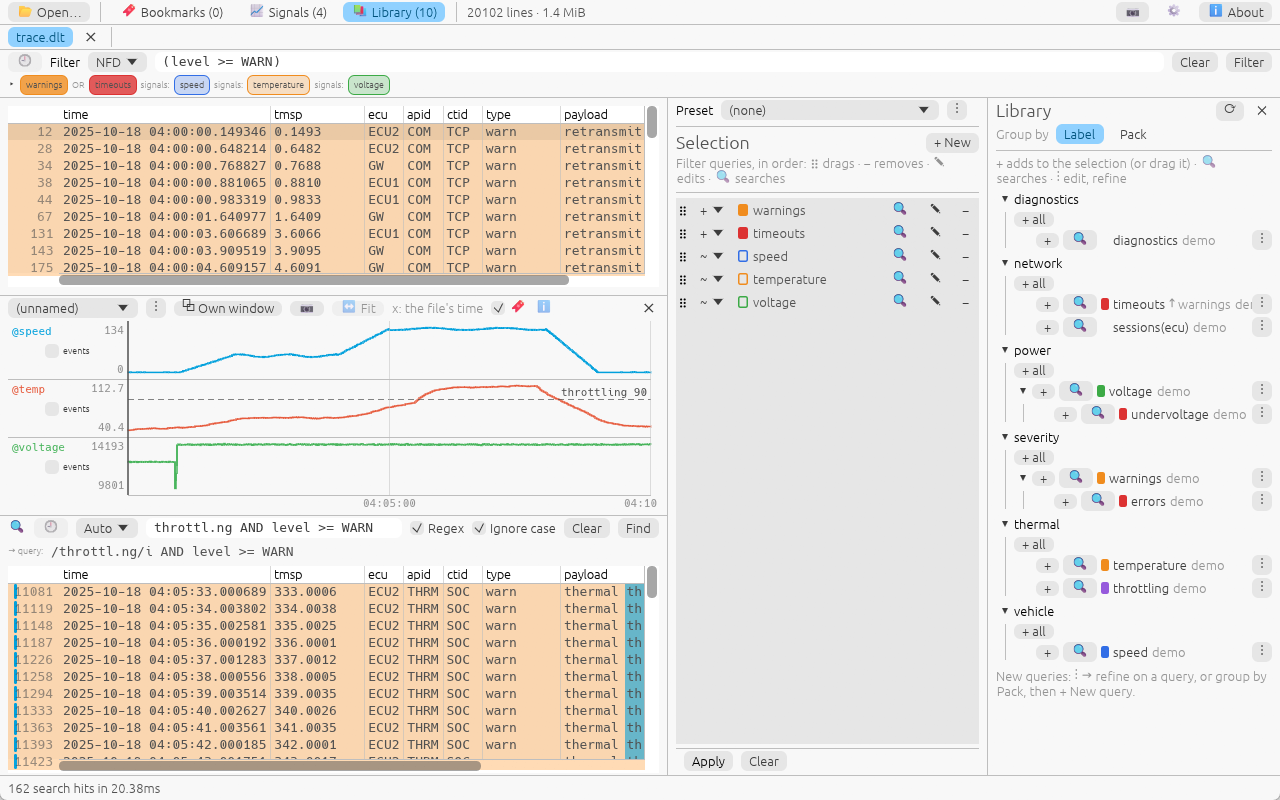
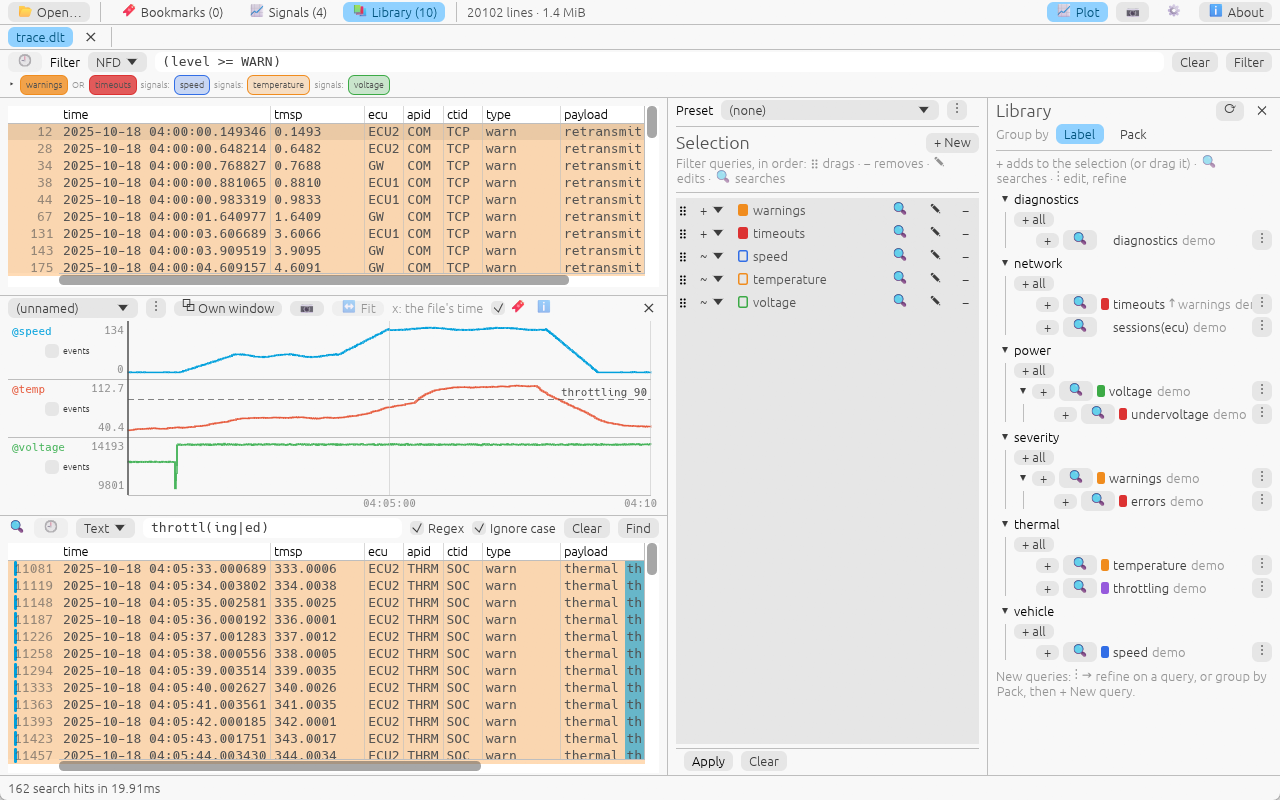
GUI: Plot button in the top bar, bookmark hover, removable search chips
Owner's tweaks for 0.1.0:
- 📈 Plot next to 📷 in the top bar shows or hides the active tab's
  plot (as the button in the Signals panel does).
- Hovering a bookmarked line in a view shows the bookmark's name and
  note at the pointer.
- A search chip shows ✖ while hovered; a click removes its query from
  the Search box, the others are searched again, and removing the last
  one clears the search. Test: removing_a_search_chip_drops_its_query.

README screenshot: a Text-mode regex search (Ignore case ticked)
instead of an Auto one, and the new Plot button. status.md records the
tweaks and the owner's idea of bookmarks in filters and searches.

Changed region(s): [[0.0, 0.6562, 0.5312, 0.9688], [0.8125, 0.0, 0.875, 0.0312]]

diff --git a/ui/src/main.rs b/ui/src/main.rs
@@ -1444,6 +1444,23 @@ impl Tab {
         }
     }
 
+    /// A search chip's click: the box without its `i`-th query (OR'ed with
+    /// the others), searched again; empty, the search is cleared.
+    fn remove_search_term(&mut self, ctx: &egui::Context, i: usize) {
+        let Some(terms) = self.search.current_terms() else { return };
+        let mut terms = terms.to_vec();
+        if i < terms.len() {
+            terms.remove(i);
+        }
+        if terms.is_empty() {
+            self.clear_search();
+            return;
+        }
+        self.search.pattern = SearchBox::text_of(&terms);
+        self.search.terms = terms;
+        self.run_search_box(ctx);
+    }
+
     /// What the Search box asks for: one query per picked library query, or
     /// the box's text as one query.
     fn build_search(&self) -> Result<ActiveSearch, String> {
@@ -2056,7 +2073,7 @@ impl Tab {
         if let Some(a) = self.filter_exp.clone().filter(|a| a.exp.nfd == self.pattern) {
             let picks = &self.picks;
             let lines = expansion_lines(&a, &|k| picks.is_lit(k));
-            if let Some(key) = chips_view(ui, &lines, &mut self.chips_open) {
+            if let Some(ChipClick::Lit(key)) = chips_view(ui, &lines, &mut self.chips_open) {
                 self.picks.toggle_lit(key);
                 self.recolor(ui.ctx());
             }
@@ -2196,7 +2213,9 @@ impl Tab {
         }
         if let Some(terms) = self.search.current_terms() {
             let lines = term_lines(terms);
-            chips_view(ui, &lines, &mut self.chips_open);
+            if let Some(ChipClick::Remove(i)) = chips_view(ui, &lines, &mut self.chips_open) {
+                self.remove_search_term(ui.ctx(), i);
+            }
         } else {
             let schema = self.file.as_ref().map(|f| f.schema()).unwrap_or_default();
             let s = &mut self.search;
@@ -2268,8 +2287,9 @@ fn short(id: &str) -> &str {
 }
 
 /// One picked query under a box: how it joins the others, its name chip
-/// and colour, its NFD, and (filter queries) the key of its selection node
-/// with whether its lines are coloured.
+/// and colour, its NFD, (filter queries) the key of its selection node
+/// with whether its lines are coloured, and (search queries) whether a
+/// click removes it from the box.
 struct ChipLine<'a> {
     joiner: &'static str,
     name: &'a str,
@@ -2277,16 +2297,26 @@ struct ChipLine<'a> {
     nfd: &'a str,
     origin: Cow<'a, str>,
     lit: Option<(u64, bool)>,
+    removable: bool,
+}
+
+/// A click on a chip: switch a filter node's line colour, or remove the
+/// `i`-th query from the box.
+#[derive(Debug, Clone, Copy, PartialEq, Eq)]
+enum ChipClick {
+    Lit(u64),
+    Remove(usize),
 }
 
 /// The picked queries under a box. Folded (the default): one row of name
 /// chips, the NFD on hover. Unfolded (▸ / ▾): one line per query with its
-/// NFD. A chip with `lit` switches its line colour (filled when on);
-/// returns the node whose chip was clicked.
-fn chips_view(ui: &mut egui::Ui, lines: &[ChipLine<'_>], open: &mut bool) -> Option<u64> {
+/// NFD. A chip with `lit` switches its line colour (filled when on); a
+/// removable one shows ✖ while hovered and a click removes it. Returns
+/// what was clicked.
+fn chips_view(ui: &mut egui::Ui, lines: &[ChipLine<'_>], open: &mut bool) -> Option<ChipClick> {
     const MAX_LINES: usize = 8;
     let mut clicked = None;
-    let mut chip = |ui: &mut egui::Ui, l: &ChipLine<'_>, folded: bool| {
+    let mut chip = |ui: &mut egui::Ui, i: usize, l: &ChipLine<'_>, folded: bool| {
         let tip = |extra: &str| {
             let nfd = if folded { format!("\n{}", l.nfd) } else { String::new() };
             format!("{}{nfd}{extra}", l.origin)
@@ -2296,7 +2326,13 @@ fn chips_view(ui: &mut egui::Ui, lines: &[ChipLine<'_>], open: &mut bool) -> Opt
                 let what = if on { "\nLines coloured: click to stop" } else { "\nClick to colour its lines" };
                 let r = library::chip(ui, l.name, l.color, on).interact(egui::Sense::click());
                 if r.on_hover_text(tip(what)).clicked() {
-                    clicked = Some(key);
+                    clicked = Some(ChipClick::Lit(key));
+                }
+            }
+            None if l.removable => {
+                let r = library::removable_chip(ui, l.name, l.color);
+                if r.on_hover_text(tip("\nClick to remove it from the search")).clicked() {
+                    clicked = Some(ChipClick::Remove(i));
                 }
             }
             None => {
@@ -2314,11 +2350,11 @@ fn chips_view(ui: &mut egui::Ui, lines: &[ChipLine<'_>], open: &mut bool) -> Opt
         ui.horizontal_wrapped(|ui| {
             ui.spacing_mut().item_spacing.x = 4.0;
             fold(ui, open);
-            for l in lines {
+            for (i, l) in lines.iter().enumerate() {
                 if !l.joiner.is_empty() {
                     ui.label(RichText::new(l.joiner).small().weak());
                 }
-                chip(ui, l, true);
+                chip(ui, i, l, true);
             }
         });
         return clicked;
@@ -2330,7 +2366,7 @@ fn chips_view(ui: &mut egui::Ui, lines: &[ChipLine<'_>], open: &mut bool) -> Opt
             }
             let w = if i == 0 { 38.0 } else { 52.0 };
             ui.add_sized([w, 14.0], egui::Label::new(RichText::new(l.joiner).small().weak()));
-            chip(ui, l, false);
+            chip(ui, i, l, false);
             ui.add(egui::Label::new(RichText::new(l.nfd).monospace().small()).truncate());
         });
     }
@@ -2385,6 +2421,7 @@ In '{by}', which is picked too: not repeated in the box"
                 nfd: a.exp.part_nfd(p),
                 origin,
                 lit: (p.role != Role::Exclude).then(|| (a.keys[i], lit(a.keys[i]))),
+                removable: false,
             }
         })
         .collect()
@@ -2402,6 +2439,7 @@ fn term_lines(terms: &[Term]) -> Vec<ChipLine<'_>> {
             nfd: &t.nfd,
             origin: "search query".into(),
             lit: None,
+            removable: true,
         })
         .collect()
 }
@@ -3478,6 +3516,14 @@ impl App {
                     if r.clicked() {
                         shot::request(ui.ctx(), None);
                     }
+                    // The plot at hand, not only in the Signals panel.
+                    if let Some(tab) = self.tabs.get(self.active) {
+                        let mut plot = plot::lock(&tab.plot);
+                        let tip = if plot.shown { "Close the plot (its lanes are kept)" } else { "Show the plot" };
+                        if ui.selectable_label(plot.shown, "📈 Plot").on_hover_text(tip).clicked() {
+                            plot.shown = !plot.shown;
+                        }
+                    }
                 });
             });
         });
@@ -4176,6 +4222,7 @@ gear=D
                 nfd: "(/SSL/)",
                 origin: "demo.ssl".into(),
                 lit: Some((1, true)),
+                removable: false,
             },
             ChipLine {
                 joiner: "OR",
@@ -4184,6 +4231,7 @@ gear=D
                 nfd: "(/disk/)",
                 origin: "demo.disk".into(),
                 lit: Some((2, false)),
+                removable: false,
             },
             ChipLine {
                 joiner: "AND NOT",
@@ -4192,6 +4240,7 @@ gear=D
                 nfd: "(/nav/)",
                 origin: "demo.noise".into(),
                 lit: None,
+                removable: false,
             },
         ];
         let ctx = egui::Context::default();
@@ -4892,6 +4941,41 @@ query nav
         tab.search_for(&ctx, &lib, &Target::Library("p.nav".into()), true);
         settle(&mut tab, &ctx);
         assert_eq!(hits(&tab).iter().map(|(l, _)| *l).collect::<Vec<_>>(), [0, 2]);
+        std::fs::remove_dir_all(&dir).ok();
+    }
+
+    /// A search chip's click removes its query: the others are searched
+    /// again; removing the last one clears the search.
+    #[test]
+    fn removing_a_search_chip_drops_its_query() {
+        use nerka_core::input::dlt::writer::Msg;
+        let dir = std::env::temp_dir().join(format!("nerka-gui-chip-remove-{}", std::process::id()));
+        std::fs::create_dir_all(&dir).unwrap();
+        let dlt = dir.join("t.dlt");
+        let mut buf = Vec::new();
+        for apid in ["NAV", "DIAG", "NAV", "COM"] {
+            Msg::log(nerka_core::Level::Info, "ECU1", apid, "C", vec![]).encode(&mut buf);
+        }
+        std::fs::write(&dlt, buf).unwrap();
+        let mut lib = Library::new();
+        let pack = "pack p\nquery nav\n    apid == NAV\nquery diag\n    apid == DIAG\n";
+        lib.add(pack::parse_pack("p.nerka-pack", pack).unwrap()).unwrap();
+        let ctx = egui::Context::default();
+        let mut tab = Tab::open(&ctx, dlt, &SearchPrefs::default());
+        settle(&mut tab, &ctx);
+        tab.search_for(&ctx, &lib, &Target::Library("p.nav".into()), false);
+        tab.search_for(&ctx, &lib, &Target::Library("p.diag".into()), true);
+        settle(&mut tab, &ctx);
+        assert_eq!(hits(&tab).iter().map(|(l, _)| *l).collect::<Vec<_>>(), [0, 1, 2]);
+
+        tab.remove_search_term(&ctx, 0);
+        settle(&mut tab, &ctx);
+        assert_eq!(tab.search.terms.iter().map(|t| t.name.as_str()).collect::<Vec<_>>(), ["diag"]);
+        assert_eq!(tab.search.pattern, SearchBox::text_of(&tab.search.terms));
+        assert_eq!(hits(&tab).iter().map(|(l, _)| *l).collect::<Vec<_>>(), [1]);
+
+        tab.remove_search_term(&ctx, 0);
+        assert!(tab.search.active.is_none() && tab.search.pattern.is_empty());
         std::fs::remove_dir_all(&dir).ok();
     }
 

diff --git a/ui/src/library.rs b/ui/src/library.rs
@@ -626,6 +626,34 @@ pub fn chip(ui: &mut egui::Ui, text: &str, color: Color32, strong: bool) -> egui
         .response
 }
 
+/// A chip a click removes: ✖ after the name while the pointer is over it
+/// (the room for it is always kept, so the chips don't move).
+pub fn removable_chip(ui: &mut egui::Ui, text: &str, color: Color32) -> egui::Response {
+    let id = ui.make_persistent_id(("removable chip", text));
+    let hot = ui.data(|d| d.get_temp::<bool>(id)).unwrap_or(false);
+    let r = egui::Frame::new()
+        .fill(color.gamma_multiply(if hot { 0.45 } else { 0.25 }))
+        .stroke(egui::Stroke::new(1.0, color))
+        .corner_radius(6.0)
+        .inner_margin(egui::Margin::symmetric(5, 0))
+        .show(ui, |ui| {
+            ui.horizontal(|ui| {
+                ui.spacing_mut().item_spacing.x = 3.0;
+                ui.label(RichText::new(text).small());
+                let x = if hot { ui.visuals().strong_text_color() } else { Color32::TRANSPARENT };
+                ui.label(RichText::new("✖").small().color(x));
+            })
+        })
+        .response
+        .interact(egui::Sense::click());
+    let now = r.hovered();
+    if now != hot {
+        ui.data_mut(|d| d.insert_temp(id, now));
+        ui.ctx().request_repaint();
+    }
+    r
+}
+
 /// Why a query can't run on this file: the fields it needs that the file
 /// doesn't have.
 fn incompatible_text(missing: &[String], schema: &[FieldDef]) -> String {

diff --git a/ui/src/view.rs b/ui/src/view.rs
@@ -755,6 +755,22 @@ pub fn log_view(
     if has_focus {
         painter.rect_stroke(outer.shrink(0.5), 0.0, Stroke::new(1.0, vis.selection.stroke.color), StrokeKind::Inside);
     }
+    // Hovering a bookmarked line shows the bookmark's name and note.
+    if let Some(b) = hl.bookmarks
+        && response.hovered()
+        && !bar.hovered()
+        && rows > 0
+        && let Some(p) = response.hover_pos()
+        && rows_rect.contains(p)
+        && let line = line_of_row(hit(state, p).row)
+        && let Some(name) = b.name(line)
+    {
+        let tip = match b.note(line).unwrap_or_default() {
+            "" => format!("🔖 {name}"),
+            note => format!("🔖 {name}\n{note}"),
+        };
+        response.clone().on_hover_text_at_pointer(tip);
+    }
 
     let moved_to = state.selected.filter(|_| state.selected != selected_before);
     ViewOutput { clicked, has_focus, copied, toggle_bookmark, detail, moved_to }

diff --git a/doc/status.md b/doc/status.md
@@ -2,7 +2,7 @@
 
 Snapshot of where the project stands. Update this file whenever the state changes.
 
-_Last update: 2026-10-29 (0.1.0 prepared for going public: CI token read-only, README polished with a screenshot of synthetic data (`doc/img/nerka.png`), the licensing notes tidied; `--search-pick` at startup on a DLT file runs once the file is read. Before, 2026-10-28: plot: New plot is blank and unnamed; a kept plot opens in another tab with all its lanes, FIBEX arguments picked. Before: issues #7 and #8; plot: names keep their end, ✖ closes it, kept plots to switch between; a tab's Files window. Before, 2026-10-26: compressed MF4 via the unpack cache; line window scrolls and steps with ↑ / ↓. Before, 2026-10-25: owner's fixes after trying the PR: FIBEX short names name arguments; plot lanes keep a least height and scroll; the line window shows the line's own signals; ↔ Fit. Before: line window Signals section, following the selected line; bookmarks as cursors, markers, time cursors. Design in `sources-and-signals.md`)._
+_Last update: 2026-11-01 (tweaks for 0.1.0, owner: 📈 Plot in the top bar; hovering a bookmarked line shows its name and note; a search chip removes its query when clicked; README screenshot with the library, a plot and a text search. Before, 2026-10-29: 0.1.0 prepared for going public: CI token read-only, README polished with a screenshot of synthetic data (`doc/img/nerka.png`), the licensing notes tidied; `--search-pick` at startup on a DLT file runs once the file is read. Before, 2026-10-28: plot: New plot is blank and unnamed; a kept plot opens in another tab with all its lanes, FIBEX arguments picked. Before: issues #7 and #8; plot: names keep their end, ✖ closes it, kept plots to switch between; a tab's Files window. Before, 2026-10-26: compressed MF4 via the unpack cache; line window scrolls and steps with ↑ / ↓. Before, 2026-10-25: owner's fixes after trying the PR: FIBEX short names name arguments; plot lanes keep a least height and scroll; the line window shows the line's own signals; ↔ Fit. Before: line window Signals section, following the selected line; bookmarks as cursors, markers, time cursors. Design in `sources-and-signals.md`)._
 
 ## State
 
@@ -37,6 +37,7 @@ Owner feedback is driving this; these are deliberate choices, keep them:
 - **Search manager (POC):** 📚 (Ctrl+Shift+L) opens two panes: the **Library** (a tree: refining queries under their parent; `+` or drag adds to the selection, `🔍` searches, `⋮` edit / refine / exclude, `+ New query`) and the **Selection** (ordered filter queries; drag to reorder, `+` / `−` role, `✎` edit, save to a pack; owner, 2026-10-18: no checkboxes). **Apply** puts the selection into the Filter bar. Searching is an action: `🔍` → **Search for it** (replace) or **Add to search (OR)** (typed text becomes a query first). The Search box looks only inside the filter result and colours hits per query (n / N jump between search hits). Query names may contain spaces (quoted in pack files).
 - **Bookmarks:** these work (`m`, `b` / `B`, notes in the side panel, `<log>.nerka-marks` sidecar; the panel shows each line wrapped to two rows, ▸ / ▾ or a click unfolds the whole line), but the owner wasn't sure about them yet. Hovering the 🔖 button explains them. Ask before investing more in them. **Names (owner, 2026-10-25: the line number as id is off):** each bookmark has a short name, `B1`, `B2`… (the first free one when it is made), shown and renamed in the panel (the field next to its line link; set when the field loses focus, emptied: a free name again); the plot and the CLI's `marks` show it. The sidecar line is `<line>\t<note>\t<name>`; an older two-column sidecar gets names in line order when read.
 
+- **Tweaks for 0.1.0 (owner, 2026-11-01):** **📈 Plot** in the top bar (next to 📷) shows or hides the active tab's plot, as the button in the Signals panel does. **Hovering a bookmarked line** in a view shows the bookmark's name and note at the pointer (`view.rs`). **Search chips** (the Search box's library queries): ✖ shows while one is hovered, and a click removes that query from the box (the others are searched again; the last one clears the search; `Tab::remove_search_term`). Filter chips keep their click (line colour).
 - **Screenshots to the clipboard (owner, 2026-10-25):** 📷 in the top bar (or Ctrl+Shift+S) copies an image of the window; 📷 in the plot's header copies the plot alone (in its own window too). egui reads the frame's pixels and eframe puts the image on the clipboard (`ui/src/shot.rs`); no new dependency.
 
 ## Checking the GUI visually
@@ -163,6 +164,7 @@ Don't settle these silently: ask.
 5. **Releases / downloads:** `release.yml` (Linux + Windows pre-releases on `v*` tags, archives with the README and both licence files) is in place; open: macOS builds (unsigned binaries warn; 10x runner minutes).
 6. **Trying Linux locally:** CI builds and tests Linux, but this Windows PC has no WSL, Docker or zig, so the Linux GUI is untried. WSL would also run it.
 7. **Copying multi-line messages (owner, 2026-10-19: action item, rethink later):** a decoded message's own line breaks and tabs show as spaces in the views and are kept only in the line window (Enter). Ctrl+C / Copy in the views copy the display text (formatting dropped); the line window's Copy message / Copy line keep it. The owner isn't fully happy with this, but neither single rule is good: always copying with the original formatting breaks the one-row-per-line, tab-separated paste (spreadsheets, grep), while always copying the display text loses stack traces and JSON. Revisit (e.g. a copy mode, or a second shortcut).
+8. **Bookmarks in filters and searches (owner's idea, 2026-11-01, not designed yet):** select bookmarked lines in a query (keep them in a filter, search for them, or match on their name / note), and show a bookmark's note in the result views, perhaps switched on in the Bookmarks panel.
 
 ## Known limitations
 

diff --git a/README.md b/README.md
@@ -10,7 +10,7 @@ your logs carry. Everything runs locally, with no backend: a desktop viewer
 (`nerka-gui`) and a command-line tool (`nerka`) on one UI-free engine
 (`nerka-core`).
 
-![nerka on a synthetic DLT drive: warnings filtered from a query pack, speed, temperature and battery voltage plotted with a throttling threshold, an Auto-mode search with Regex and Ignore case (`throttl.ng AND level >= WARN`) in the bottom pane, and the library and selection panes on the right](doc/img/nerka.png)
+![nerka on a synthetic DLT drive: warnings filtered from a query pack, speed, temperature and battery voltage plotted with a throttling threshold, a text search (regex, ignoring case) for throttling messages in the bottom pane, and the library and selection panes on the right](doc/img/nerka.png)
 
 > Status: **0.1.0**, the first public release. Windows is the main
 > platform; Linux builds come from CI; macOS isn't built yet. While nerka is
